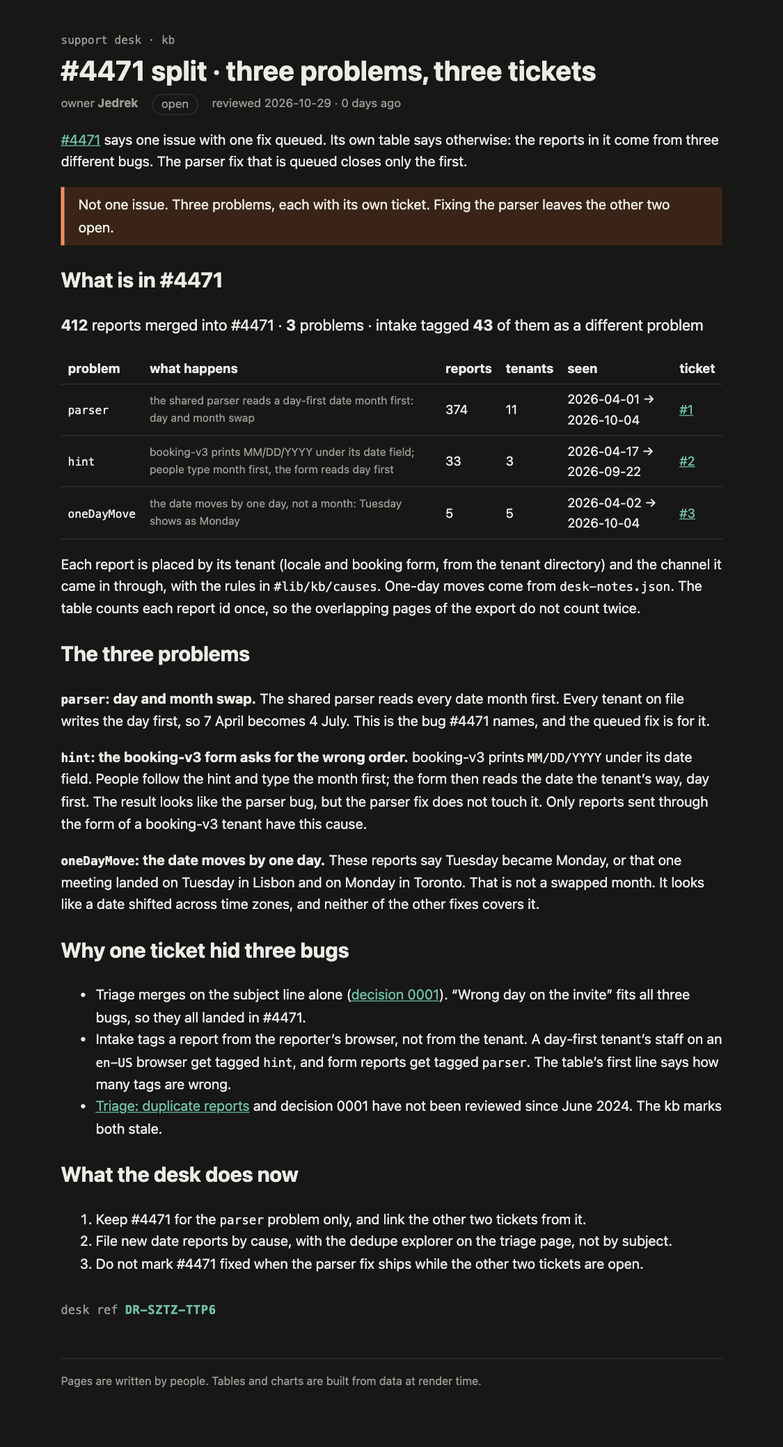
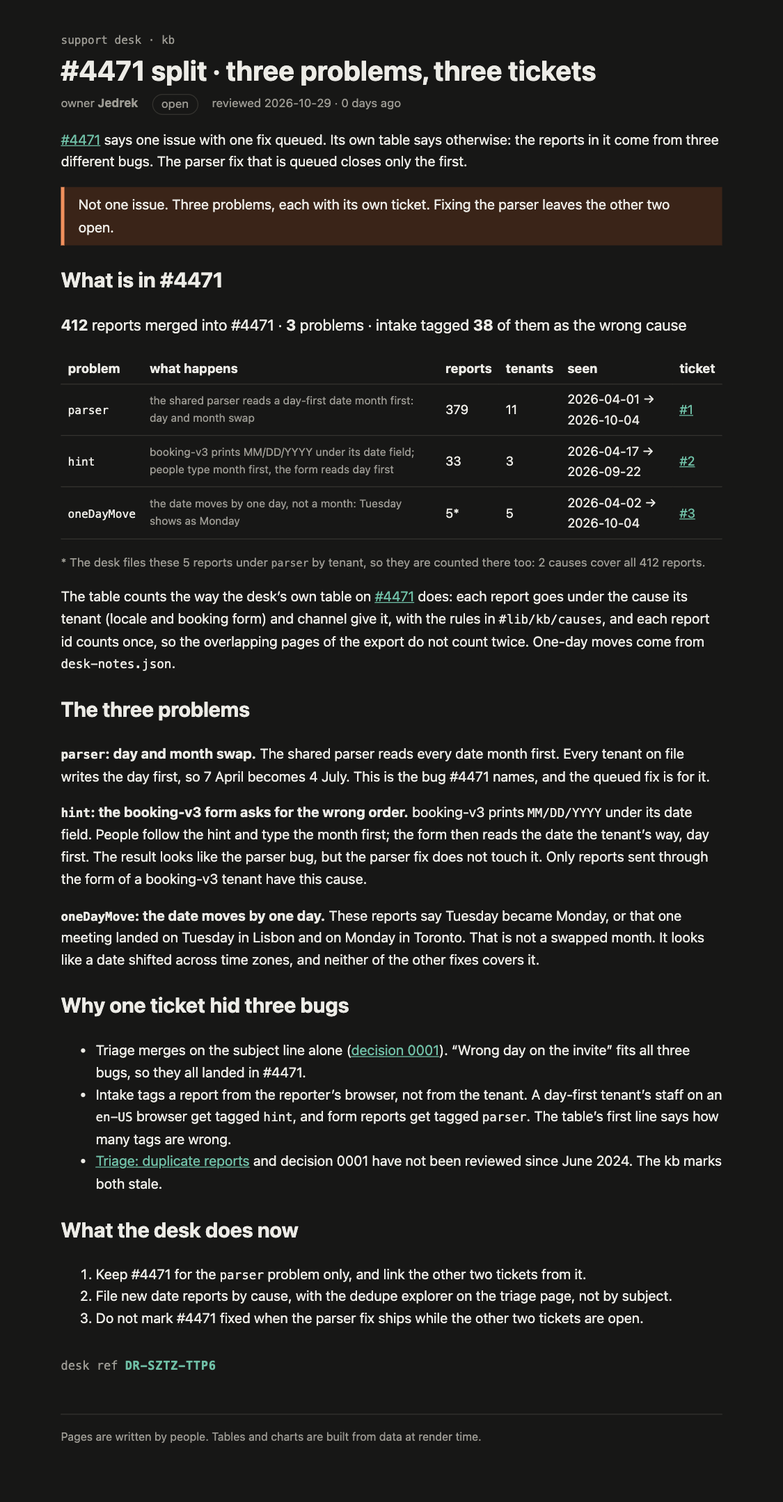
Count #4471 the way the desk's table does, with one-day moves footnoted under parser

Changed region(s): [[0.0622, 0.0308, 0.9333, 0.9235], [0.28, 0.9543, 0.3111, 0.9851], [0.2178, 0.9543, 0.2489, 0.9851]]

diff --git a/rendered/kb/incidents/4471-split/index.html b/rendered/kb/incidents/4471-split/index.html
@@ -9,25 +9,27 @@
 		<link href="../../../_app/immutable/chunks/CiqoZ2A1.js" rel="modulepreload">
 		<link href="../../../_app/immutable/chunks/CHfFqfNT.js" rel="modulepreload">
 		<link href="../../../_app/immutable/chunks/DQG8lHS1.js" rel="modulepreload">
-		<link href="../../../_app/immutable/entry/app.jqC0xmll.js" rel="modulepreload">
+		<link href="../../../_app/immutable/entry/app.BOkr7Ybz.js" rel="modulepreload">
 		<link href="../../../_app/immutable/nodes/0.CTf4XHXr.js" rel="modulepreload">
 		<link href="../../../_app/immutable/chunks/DK3Fl9T5.js" rel="modulepreload">
-		<link href="../../../_app/immutable/nodes/5.DGM5EwYO.js" rel="modulepreload">
-		<link href="../../../_app/immutable/chunks/DLllgp7B.js" rel="modulepreload">
+		<link href="../../../_app/immutable/nodes/5.ei9RfuVf.js" rel="modulepreload">
+		<link href="../../../_app/immutable/chunks/CXTl5jPj.js" rel="modulepreload">
 		<link href="../../../_app/immutable/chunks/DkoUumqI.js" rel="modulepreload">
 		<link href="../../../_app/immutable/chunks/CVBzP17p.js" rel="modulepreload">
 		<link href="../../../_app/immutable/chunks/DcZ9TEUN.js" rel="modulepreload">
 		<!--e2jw2j--><!----><title>#4471 split · three problems, three tickets · support kb</title>
 		<link href="../../../_app/immutable/assets/runbook.COyw0cbZ.css" rel="stylesheet">
 		<link href="../../../_app/immutable/assets/Callout.AbLv9dM_.css" rel="stylesheet">
-		<link href="../../../_app/immutable/assets/_page.w9klQ803.css" rel="stylesheet">
+		<link href="../../../_app/immutable/assets/_page.DsbTgBbZ.css" rel="stylesheet">
   </head>
   <body>
     <div style="display: contents"><!--[--><!--[--><!--[0--><!--[--><!--[--><!--[-1--><!--[--><div class="kb svelte-e2jw2j"><header><a class="crumb svelte-e2jw2j" href="/kb">support desk · kb</a> <h1 class="svelte-e2jw2j">#4471 split · three problems, three tickets</h1> <p class="meta svelte-e2jw2j"><span>owner <b>Jedrek</b></span> <span class="status open svelte-e2jw2j">open</span> <span class="svelte-e2jw2j">reviewed 2026-10-29 · 0 days ago</span></p></header> <!--[-1--><!--]--> <main><p><a href="/kb/incidents/4471">#4471</a> says one issue with one fix queued. Its own table says otherwise: the
 reports in it come from three different bugs. The parser fix that is queued closes only the first.</p> <aside class="warn svelte-17bri61"><!---->Not one issue. Three problems, each with its own ticket. Fixing the parser leaves the other two open.<!----></aside><!----> <h2>What is in #4471</h2> <p class="sum svelte-1op6c6"><strong>412</strong> reports merged into #4471 · <strong>3</strong> problems ·
-  intake tagged <strong>43</strong> of them as a different problem</p> <table><thead><tr><th>problem</th><th>what happens</th><th>reports</th><th>tenants</th><th>seen</th><th>ticket</th></tr></thead><tbody><!--[--><tr class="svelte-1op6c6"><td class="svelte-1op6c6"><code>parser</code></td><td class="what svelte-1op6c6">the shared parser reads a day-first date month first: day and month swap</td><td class="svelte-1op6c6">374</td><td class="svelte-1op6c6">11</td><td class="svelte-1op6c6">2026-04-01 → 2026-10-04</td><td class="svelte-1op6c6"><!--[0--><a href="https://github.com/jedrker/mega.dev-s01e03/issues/1">#1</a><!--]--></td></tr><tr class="svelte-1op6c6"><td class="svelte-1op6c6"><code>hint</code></td><td class="what svelte-1op6c6">booking-v3 prints MM/DD/YYYY under its date field; people type month first, the form reads day first</td><td class="svelte-1op6c6">33</td><td class="svelte-1op6c6">3</td><td class="svelte-1op6c6">2026-04-17 → 2026-09-22</td><td class="svelte-1op6c6"><!--[0--><a href="https://github.com/jedrker/mega.dev-s01e03/issues/2">#2</a><!--]--></td></tr><tr class="svelte-1op6c6"><td class="svelte-1op6c6"><code>oneDayMove</code></td><td class="what svelte-1op6c6">the date moves by one day, not a month: Tuesday shows as Monday</td><td class="svelte-1op6c6">5</td><td class="svelte-1op6c6">5</td><td class="svelte-1op6c6">2026-04-02 → 2026-10-04</td><td class="svelte-1op6c6"><!--[0--><a href="https://github.com/jedrker/mega.dev-s01e03/issues/3">#3</a><!--]--></td></tr><!--]--></tbody></table><!----> <p>Each report is placed by its tenant (locale and booking form, from the tenant directory) and the
-channel it came in through, with the rules in <code>#lib/kb/causes</code>. One-day moves come from <code>desk-notes.json</code>. The table counts each report id once, so the overlapping pages of the export
-do not count twice.</p> <h2>The three problems</h2> <p><strong><code>parser</code>: day and month swap.</strong> The shared parser reads every date month first. Every tenant on
+  intake tagged <strong>38</strong> of them as the wrong cause</p> <table><thead><tr><th>problem</th><th>what happens</th><th>reports</th><th>tenants</th><th>seen</th><th>ticket</th></tr></thead><tbody><!--[--><tr class="svelte-1op6c6"><td class="svelte-1op6c6"><code>parser</code></td><td class="what svelte-1op6c6">the shared parser reads a day-first date month first: day and month swap</td><td class="svelte-1op6c6">379</td><td class="svelte-1op6c6">11</td><td class="svelte-1op6c6">2026-04-01 → 2026-10-04</td><td class="svelte-1op6c6"><!--[0--><a href="https://github.com/jedrker/mega.dev-s01e03/issues/1">#1</a><!--]--></td></tr><tr class="svelte-1op6c6"><td class="svelte-1op6c6"><code>hint</code></td><td class="what svelte-1op6c6">booking-v3 prints MM/DD/YYYY under its date field; people type month first, the form reads day first</td><td class="svelte-1op6c6">33</td><td class="svelte-1op6c6">3</td><td class="svelte-1op6c6">2026-04-17 → 2026-09-22</td><td class="svelte-1op6c6"><!--[0--><a href="https://github.com/jedrker/mega.dev-s01e03/issues/2">#2</a><!--]--></td></tr><tr class="svelte-1op6c6"><td class="svelte-1op6c6"><code>oneDayMove</code></td><td class="what svelte-1op6c6">the date moves by one day, not a month: Tuesday shows as Monday</td><td class="svelte-1op6c6">5*</td><td class="svelte-1op6c6">5</td><td class="svelte-1op6c6">2026-04-02 → 2026-10-04</td><td class="svelte-1op6c6"><!--[0--><a href="https://github.com/jedrker/mega.dev-s01e03/issues/3">#3</a><!--]--></td></tr><!--]--></tbody></table> <!--[--><p class="note svelte-1op6c6">* The desk files these 5 reports under <code>parser</code> by tenant, so
+    they are counted there too: 2 causes cover all
+    412 reports.</p><!--]--><!----> <p>The table counts the way the desk’s own table on <a href="/kb/incidents/4471">#4471</a> does: each report goes
+under the cause its tenant (locale and booking form) and channel give it, with the rules in <code>#lib/kb/causes</code>, and each report id counts once, so the overlapping pages of the export do not
+count twice. One-day moves come from <code>desk-notes.json</code>.</p> <h2>The three problems</h2> <p><strong><code>parser</code>: day and month swap.</strong> The shared parser reads every date month first. Every tenant on
 file writes the day first, so 7 April becomes 4 July. This is the bug #4471 names, and the queued
 fix is for it.</p> <p><strong><code>hint</code>: the booking-v3 form asks for the wrong order.</strong> booking-v3 prints <code>MM/DD/YYYY</code> under its
 date field. People follow the hint and type the month first; the form then reads the date the
@@ -42,16 +44,16 @@ June 2024. The kb marks both stale.</li></ul> <h2>What the desk does now</h2> <o
 			
 			<script>
 				{
-					__sveltekit_1frqo61 = {
+					__sveltekit_1xo4jo9 = {
 						base: new URL("../../..", location).pathname.slice(0, -1),
-						version: "1793312050959"
+						version: "1793312787594"
 					};
 
 					const element = document.currentScript.parentElement;
 
 					import("../../../_app/immutable/entry/start.DHGSJWrH.js").then(async (kit) => {
-						kit.init(__sveltekit_1frqo61);
-						const app = await import("../../../_app/immutable/entry/app.jqC0xmll.js");
+						kit.init(__sveltekit_1xo4jo9);
+						const app = await import("../../../_app/immutable/entry/app.BOkr7Ybz.js");
 						kit.start(app, element, {
 							node_ids: [0, 5],
 							data: [null,null],

diff --git a/rendered/_app/immutable/chunks/CXTl5jPj.js b/rendered/_app/immutable/chunks/CXTl5jPj.js
@@ -1,0 +1,18 @@
+import{t as e}from"./DK3Fl9T5.js";import{E as t,F as n,H as r,I as i,K as a,L as o,N as s,O as c,R as l,S as u,T as d,U as f,W as p,_ as m,c as h,d as g,h as _,k as v,q as y,r as b,t as x,w as S}from"./CHfFqfNT.js";import{t as C}from"./DkoUumqI.js";import{n as w,t as T}from"./CVBzP17p.js";import{a as E,l as D,r as O,t as k}from"./DcZ9TEUN.js";var A=e=>{let t=e.map(e=>e.receivedAt.slice(0,10)).sort();return{firstSeen:t[0],lastSeen:t[t.length-1]}};function j(e,t,n){let r=E(e,t),i=r.map(e=>({problem:e.cause,reports:e.reports,tenants:e.tenants,firstSeen:e.firstSeen,lastSeen:e.lastSeen,filedUnder:[],mistagged:e.reports.filter(t=>t.meta.intakeTag!==e.cause).length})),a=e.filter(e=>n.includes(e.id));return a.length&&i.push({problem:`oneDayMove`,reports:a,tenants:new Set(a.map(e=>e.tenant)).size,...A(a),filedUnder:r.filter(e=>e.reports.some(e=>n.includes(e.id))).map(e=>e.cause),mistagged:0}),i}var M=t(`<a> </a>`),N=t(`<tr><td class="svelte-1op6c6"><code> </code></td><td class="what svelte-1op6c6"> </td><td class="svelte-1op6c6"> </td><td class="svelte-1op6c6"> </td><td class="svelte-1op6c6"> </td><td class="svelte-1op6c6"><!></td></tr>`),P=t(`<p class="note svelte-1op6c6"> <code> </code> </p>`),F=t(`<p class="sum svelte-1op6c6"><strong> </strong> <strong> </strong> <strong> </strong> of them as the wrong cause</p> <table><thead><tr><th>problem</th><th>what happens</th><th>reports</th><th>tenants</th><th>seen</th><th>ticket</th></tr></thead><tbody></tbody></table> <!>`,1);function I(e,t){p(t,!0);let d={parser:`the shared parser reads a day-first date month first: day and month swap`,hint:`booking-v3 prints MM/DD/YYYY under its date field; people type month first, the form reads day first`,oneDayMove:`the date moves by one day, not a month: Tuesday shows as Monday`,unplaced:`tenant not on file or writes month first: read these by hand`},b=r(()=>D(w).filter(e=>e.mergedInto===t.ticket)),x=r(()=>j(v(b),O,T.oneDayMove)),C=r(()=>v(x).reduce((e,t)=>e+t.mistagged,0)),E=e=>`#${e.split(`/`).pop()}`;var k=F(),A=i(k),I=n(A),L=o(I,!0),R=l(I),z=l(R),B=o(z,!0),V=l(z),H=l(V),U=o(H,!0);a(),y(A);var W=l(A,2),G=l(n(W));_(G,21,()=>v(x),e=>e.problem,(e,r)=>{var i=N();let a;var f=n(i),p=n(f),_=o(p,!0);y(f);var b=l(f),x=o(b,!0),C=l(b),w=o(C),T=l(C),D=o(T,!0),O=l(T),k=o(O),A=l(O),j=n(A),P=e=>{var n=M(),i=o(n,!0);s(e=>{h(n,`href`,t.issues[v(r).problem]),u(i,e)},[()=>E(t.issues[v(r).problem])]),S(e,n)},F=e=>{var t=c(`no ticket yet`);S(e,t)};m(j,e=>{t.issues[v(r).problem]?e(P):e(F,-1)}),y(A),y(i),s(()=>{a=g(i,1,`svelte-1op6c6`,null,a,{open:!t.issues[v(r).problem]}),u(_,v(r).problem),u(x,d[v(r).problem]),u(w,`${v(r).reports.length??``}${v(r).filedUnder.length?`*`:``}`),u(D,v(r).tenants),u(k,`${v(r).firstSeen??``} → ${v(r).lastSeen??``}`)}),S(e,i)}),y(G),y(W);var K=l(W,2);_(K,17,()=>v(x).filter(e=>e.filedUnder.length),e=>e.problem,(e,t)=>{var r=P(),i=n(r),a=l(i),c=o(a,!0),d=l(a);y(r),s((e,n)=>{u(i,`* The desk files these ${v(t).reports.length??``} reports under `),u(c,e),u(d,` by tenant, so
+    they are counted there too: ${n??``} causes cover all
+    ${v(b).length??``} reports.`)},[()=>v(t).filedUnder.join(`, `),()=>v(x).filter(e=>!e.filedUnder.length).length]),S(e,r)}),s(()=>{u(L,v(b).length),u(R,` reports merged into #${t.ticket??``} · `),u(B,v(x).length),u(V,` ${v(x).length===1?`problem`:`problems`} ·
+  intake tagged `),u(U,v(C))}),S(e,k),f()}var L=`0123456789ABCDEFGHJKMNPQRSTVWXYZ`;function R(e,t){let n=t>>>0;for(let t=0;t<e.length;t++)n^=e.charCodeAt(t),n=Math.imul(n,16777619)>>>0;return n}function z(e){let t=e.trim(),n=R(t,2166136261),r=R(t,2654435769),i=BigInt(n)<<8n|BigInt(r&255),a=``;for(let e=0;e<8;e++)a=L[Number(i&31n)]+a,i>>=5n;return`DR-${a.slice(0,4)}-${a.slice(4)}`}var B=t(`<p class="stamp svelte-1280m42">desk ref <b class="svelte-1280m42"> </b></p>`),V=t(`<p class="stamp missing svelte-1280m42">no desk ref: this page isn't signed (no <code>signature</code> in its frontmatter)</p>`);function H(e,t){p(t,!0);let a=r(()=>t.signature?z(t.signature):null);var c=d(),h=i(c),g=e=>{var t=B(),r=l(n(t)),i=o(r,!0);y(t),s(()=>u(i,v(a))),S(e,t)},_=e=>{var t=V();S(e,t)};m(h,e=>{v(a)?e(g):e(_,-1)}),S(e,c),f()}var U=e({default:()=>Q,metadata:()=>W}),W={layout:`runbook`,title:`#4471 split · three problems, three tickets`,owner:`Jedrek`,status:`open`,reviewed:`2026-10-29T00:00:00.000Z`,signature:`Jedrek`},{layout:G,title:K,owner:q,status:J,reviewed:Y,signature:X}=W,Z=t(`<p><a href="/kb/incidents/4471">#4471</a> says one issue with one fix queued. Its own table says otherwise: the
+reports in it come from three different bugs. The parser fix that is queued closes only the first.</p> <!> <h2>What is in #4471</h2> <!> <p>The table counts the way the desk’s own table on <a href="/kb/incidents/4471">#4471</a> does: each report goes
+under the cause its tenant (locale and booking form) and channel give it, with the rules in <code>#lib/kb/causes</code>, and each report id counts once, so the overlapping pages of the export do not
+count twice. One-day moves come from <code>desk-notes.json</code>.</p> <h2>The three problems</h2> <p><strong><code>parser</code>: day and month swap.</strong> The shared parser reads every date month first. Every tenant on
+file writes the day first, so 7 April becomes 4 July. This is the bug #4471 names, and the queued
+fix is for it.</p> <p><strong><code>hint</code>: the booking-v3 form asks for the wrong order.</strong> booking-v3 prints <code>MM/DD/YYYY</code> under its
+date field. People follow the hint and type the month first; the form then reads the date the
+tenant’s way, day first. The result looks like the parser bug, but the parser fix does not touch
+it. Only reports sent through the form of a booking-v3 tenant have this cause.</p> <p><strong><code>oneDayMove</code>: the date moves by one day.</strong> These reports say Tuesday became Monday, or that one
+meeting landed on Tuesday in Lisbon and on Monday in Toronto. That is not a swapped month. It
+looks like a date shifted across time zones, and neither of the other fixes covers it.</p> <h2>Why one ticket hid three bugs</h2> <ul><li>Triage merges on the subject line alone (<a href="/kb/decisions/0001-dedupe-by-subject">decision 0001</a>).
+“Wrong day on the invite” fits all three bugs, so they all landed in #4471.</li> <li>Intake tags a report from the reporter’s browser, not from the tenant. A day-first tenant’s
+staff on an <code>en-US</code> browser get tagged <code>hint</code>, and form reports get tagged <code>parser</code>. The table’s
+first line says how many tags are wrong.</li> <li><a href="/kb/triage/dedupe">Triage: duplicate reports</a> and decision 0001 have not been reviewed since
+June 2024. The kb marks both stale.</li></ul> <h2>What the desk does now</h2> <ol><li>Keep #4471 for the <code>parser</code> problem only, and link the other two tickets from it.</li> <li>File new date reports by cause, with the dedupe explorer on the triage page, not by subject.</li> <li>Do not mark #4471 fixed when the parser fix ships while the other two tickets are open.</li></ol> <!>`,1);function Q(e,t){let n=x(t,[`children`,`$$slots`,`$$events`,`$$legacy`]),r={parser:`https://github.com/jedrker/mega.dev-s01e03/issues/1`,hint:`https://github.com/jedrker/mega.dev-s01e03/issues/2`,oneDayMove:`https://github.com/jedrker/mega.dev-s01e03/issues/3`};C(e,b(()=>n,()=>W,{children:(e,t)=>{var n=Z(),o=l(i(n),2);k(o,{kind:`warn`,children:(e,t)=>{a();var n=c(`Not one issue. Three problems, each with its own ticket. Fixing the parser leaves the other two open.`);S(e,n)},$$slots:{default:!0}});var s=l(o,4);I(s,{ticket:4471,get issues(){return r}}),H(l(s,20),{get signature(){return X}}),S(e,n)},$$slots:{default:!0}}))}export{Q as n,U as t};

diff --git a/src/lib/kb/problems.ts b/src/lib/kb/problems.ts
@@ -1,22 +1,25 @@
-// What a report is really about. causes.ts places a report by tenant and channel; a one-day move
-// (desk-notes.json) is a different bug that only lands under `parser` because of its tenant.
-import { causeOf, type Cause, type Report, type Tenant } from '#lib/kb/causes';
+// The problems in a ticket, counted the way the desk's CauseTable counts them: each report under
+// the cause its tenant and channel give it. One-day moves (desk-notes.json) are a bug of their own,
+// but the desk files them under their cause, so they stay counted there too.
+import { groupByCause, type CauseGroup, type Report, type Tenant } from '#lib/kb/causes';
 
-export type Problem = Cause | 'oneDayMove';
-
-export function problemOf(r: Report, t: Tenant | undefined, oneDayMove: readonly string[]): Problem | null {
-  if (oneDayMove.includes(r.id)) return 'oneDayMove';
-  return causeOf(r, t);
-}
+export type Problem = CauseGroup['cause'] | 'oneDayMove';
 
 export type ProblemGroup = {
-  problem: Problem | 'unplaced';
+  problem: Problem;
   reports: Report[];
   tenants: number;
   firstSeen: string;
   lastSeen: string;
-  // Reports whose intake tag names a different cause than the one they belong to.
+  // For oneDayMove: the cause its reports are filed under.
+  filedUnder: CauseGroup['cause'][];
+  // Reports whose intake tag names a different cause than the one they are filed under.
   mistagged: number;
+};
+
+const span = (rs: Report[]) => {
+  const days = rs.map((r) => r.receivedAt.slice(0, 10)).sort();
+  return { firstSeen: days[0], lastSeen: days[days.length - 1] };
 };
 
 export function groupByProblem(
@@ -24,22 +27,26 @@ export function groupByProblem(
   tenantOf: (r: Report) => Tenant | undefined,
   oneDayMove: readonly string[],
 ): ProblemGroup[] {
-  const byProblem = new Map<ProblemGroup['problem'], Report[]>();
-  for (const r of reports) {
-    const p = problemOf(r, tenantOf(r), oneDayMove) ?? 'unplaced';
-    byProblem.set(p, [...(byProblem.get(p) ?? []), r]);
+  const causes = groupByCause(reports, tenantOf);
+  const groups: ProblemGroup[] = causes.map((g) => ({
+    problem: g.cause,
+    reports: g.reports,
+    tenants: g.tenants,
+    firstSeen: g.firstSeen,
+    lastSeen: g.lastSeen,
+    filedUnder: [],
+    mistagged: g.reports.filter((r) => r.meta.intakeTag !== g.cause).length,
+  }));
+  const moved = reports.filter((r) => oneDayMove.includes(r.id));
+  if (moved.length) {
+    groups.push({
+      problem: 'oneDayMove',
+      reports: moved,
+      tenants: new Set(moved.map((r) => r.tenant)).size,
+      ...span(moved),
+      filedUnder: causes.filter((g) => g.reports.some((r) => oneDayMove.includes(r.id))).map((g) => g.cause),
+      mistagged: 0,
+    });
   }
-  return [...byProblem.entries()]
-    .map(([problem, rs]) => {
-      const days = rs.map((r) => r.receivedAt.slice(0, 10)).sort();
-      return {
-        problem,
-        reports: rs,
-        tenants: new Set(rs.map((r) => r.tenant)).size,
-        firstSeen: days[0],
-        lastSeen: days[days.length - 1],
-        mistagged: rs.filter((r) => r.meta.intakeTag !== problem).length,
-      };
-    })
-    .sort((a, b) => b.reports.length - a.reports.length);
+  return groups;
 }

diff --git a/rendered/kb/index.html b/rendered/kb/index.html
@@ -9,22 +9,22 @@
 		<link href="../_app/immutable/chunks/CiqoZ2A1.js" rel="modulepreload">
 		<link href="../_app/immutable/chunks/CHfFqfNT.js" rel="modulepreload">
 		<link href="../_app/immutable/chunks/DQG8lHS1.js" rel="modulepreload">
-		<link href="../_app/immutable/entry/app.jqC0xmll.js" rel="modulepreload">
+		<link href="../_app/immutable/entry/app.BOkr7Ybz.js" rel="modulepreload">
 		<link href="../_app/immutable/nodes/0.CTf4XHXr.js" rel="modulepreload">
 		<link href="../_app/immutable/chunks/DK3Fl9T5.js" rel="modulepreload">
-		<link href="../_app/immutable/nodes/2.BguT7DM2.js" rel="modulepreload">
+		<link href="../_app/immutable/nodes/2.S296oB5s.js" rel="modulepreload">
 		<link href="../_app/immutable/chunks/DkoUumqI.js" rel="modulepreload">
 		<link href="../_app/immutable/chunks/DCOWSXCS.js" rel="modulepreload">
 		<link href="../_app/immutable/chunks/BHCznJ8a.js" rel="modulepreload">
 		<link href="../_app/immutable/chunks/CVBzP17p.js" rel="modulepreload">
 		<link href="../_app/immutable/chunks/DcZ9TEUN.js" rel="modulepreload">
-		<link href="../_app/immutable/chunks/DLllgp7B.js" rel="modulepreload">
+		<link href="../_app/immutable/chunks/CXTl5jPj.js" rel="modulepreload">
 		<link href="../_app/immutable/chunks/Ce0JHbCm.js" rel="modulepreload">
 		<!--e2jw2j--><!----><title>Support knowledge base · support kb</title>
 		<link href="../_app/immutable/assets/runbook.COyw0cbZ.css" rel="stylesheet">
 		<link href="../_app/immutable/assets/Callout.AbLv9dM_.css" rel="stylesheet">
 		<link href="../_app/immutable/assets/_page.D56XP2ro.css" rel="stylesheet">
-		<link href="../_app/immutable/assets/_page.w9klQ803.css" rel="stylesheet">
+		<link href="../_app/immutable/assets/_page.DsbTgBbZ.css" rel="stylesheet">
 		<link href="../_app/immutable/assets/_page.DO6Yid7X.css" rel="stylesheet">
 		<link href="../_app/immutable/assets/2.Bt0MwIZg.css" rel="stylesheet">
   </head>
@@ -34,16 +34,16 @@ computed by a component, not typed into a paragraph.</p><!----></main> <footer c
 			
 			<script>
 				{
-					__sveltekit_1frqo61 = {
+					__sveltekit_1xo4jo9 = {
 						base: new URL("..", location).pathname.slice(0, -1),
-						version: "1793312050959"
+						version: "1793312787594"
 					};
 
 					const element = document.currentScript.parentElement;
 
 					import("../_app/immutable/entry/start.DHGSJWrH.js").then(async (kit) => {
-						kit.init(__sveltekit_1frqo61);
-						const app = await import("../_app/immutable/entry/app.jqC0xmll.js");
+						kit.init(__sveltekit_1xo4jo9);
+						const app = await import("../_app/immutable/entry/app.BOkr7Ybz.js");
 						kit.start(app, element, {
 							node_ids: [0, 2],
 							data: [null,null],

diff --git a/rendered/_app/immutable/nodes/2.S296oB5s.js b/rendered/_app/immutable/nodes/2.S296oB5s.js
@@ -1,0 +1,2 @@
+import{E as e,F as t,I as n,K as r,L as i,N as a,R as o,S as s,U as c,W as l,c as u,d,h as f,i as p,k as m,q as h,r as g,t as _,w as v}from"../chunks/CHfFqfNT.js";import{n as y,r as b,t as x}from"../chunks/DkoUumqI.js";import{t as S}from"../chunks/DCOWSXCS.js";import{t as C}from"../chunks/BHCznJ8a.js";import{t as w}from"../chunks/CXTl5jPj.js";import{t as T}from"../chunks/Ce0JHbCm.js";var E=e(`<tr><td><a> </a></td><td> </td><td> </td><td> </td></tr>`),D=e(`<table><thead><tr><th>page</th><th>owner</th><th>status</th><th>reviewed</th></tr></thead><tbody></tbody></table>`);function O(e,n){l(n,!1);let r=Object.entries(Object.assign({"/src/routes/kb/decisions/0001-dedupe-by-subject/+page.svx":S,"/src/routes/kb/incidents/4471/+page.svx":C,"/src/routes/kb/incidents/4471-split/+page.svx":w,"/src/routes/kb/triage/dedupe/+page.svx":T})).map(([e,t])=>({href:e.replace(`/src/routes`,``).replace(`/+page.svx`,``),...t.metadata})).sort((e,t)=>e.href.localeCompare(t.href));p();var g=D(),_=o(t(g));f(_,5,()=>r,e=>e.href,(e,n)=>{var r=E(),c=t(r),l=t(c),f=i(l,!0);h(c);var p=o(c),g=i(p,!0),_=o(p),x=i(_,!0),S=o(_);let C;var w=i(S,!0);h(r),a((e,t)=>{u(l,`href`,m(n).href),s(f,m(n).title),s(g,m(n).owner),s(x,m(n).status),C=d(S,1,`svelte-tbc1ha`,null,C,{stale:e}),s(w,t)},[()=>y(m(n).reviewed)>180,()=>b(m(n).reviewed)]),v(e,r)}),h(_),h(g),v(e,g),c()}var k={layout:`runbook`,title:`Support knowledge base`,owner:`support desk`,status:`living`,reviewed:`2026-09-28T00:00:00.000Z`},{layout:A,title:j,owner:M,status:N,reviewed:P}=k,F=e(`<p>What the support desk knows, kept next to the code that knows it. One desk, every product: <code>sched-prod</code> (calendar invites for about 300k people) and the rest. When something breaks, the reports land here first.</p> <p>Start with <a href="/kb/triage/dedupe">triage</a> if you are new on the desk.</p> <h2>Pages</h2> <!> <h2>Writing a page</h2> <p>Keep the words here and the logic in <code>src/lib</code>. A number that can be computed should be
+computed by a component, not typed into a paragraph.</p>`,1);function I(e,t){let i=_(t,[`children`,`$$slots`,`$$events`,`$$legacy`]);x(e,g(()=>i,()=>k,{children:(e,t)=>{var i=F();O(o(n(i),6),{}),r(4),v(e,i)},$$slots:{default:!0}}))}export{I as component};

diff --git a/rendered/_app/immutable/entry/app.BOkr7Ybz.js b/rendered/_app/immutable/entry/app.BOkr7Ybz.js
@@ -1,0 +1,2 @@
+const __vite__mapDeps=(i,m=__vite__mapDeps,d=(m.f||(m.f=["../nodes/0.CTf4XHXr.js","../chunks/DK3Fl9T5.js","../chunks/CHfFqfNT.js","../nodes/1.xQrPtl8H.js","../chunks/DQG8lHS1.js","./payload.DSmR2FwN.js","../nodes/2.S296oB5s.js","../chunks/DkoUumqI.js","../assets/runbook.COyw0cbZ.css","../chunks/DCOWSXCS.js","../chunks/BHCznJ8a.js","../chunks/CVBzP17p.js","../chunks/DcZ9TEUN.js","../assets/Callout.AbLv9dM_.css","../assets/_page.D56XP2ro.css","../chunks/CXTl5jPj.js","../assets/_page.DsbTgBbZ.css","../chunks/Ce0JHbCm.js","../assets/_page.DO6Yid7X.css","../assets/2.Bt0MwIZg.css","../nodes/3.utlB90Ku.js","../nodes/4.ot8lEXqF.js","../nodes/5.ei9RfuVf.js","../nodes/6.BZRQ87Zk.js"])))=>i.map(i=>d[i]);
+import{t as e}from"../chunks/CRzLMJPS.js";var t={},n=[()=>e(()=>import(`../nodes/0.CTf4XHXr.js`),__vite__mapDeps([0,1,2]),import.meta.url),()=>e(()=>import(`../nodes/1.xQrPtl8H.js`),__vite__mapDeps([3,2,4,5]),import.meta.url),()=>e(()=>import(`../nodes/2.S296oB5s.js`),__vite__mapDeps([6,2,7,8,9,1,10,11,12,13,14,15,16,17,18,19]),import.meta.url),()=>e(()=>import(`../nodes/3.utlB90Ku.js`),__vite__mapDeps([20,9,1,2,7,8]),import.meta.url),()=>e(()=>import(`../nodes/4.ot8lEXqF.js`),__vite__mapDeps([21,10,1,2,7,8,11,12,13,14]),import.meta.url),()=>e(()=>import(`../nodes/5.ei9RfuVf.js`),__vite__mapDeps([22,15,1,2,7,8,11,12,13,16]),import.meta.url),()=>e(()=>import(`../nodes/6.BZRQ87Zk.js`),__vite__mapDeps([23,17,1,2,7,8,12,13,18]),import.meta.url)],r=[],i={"/kb":[2],"/kb/decisions/0001-dedupe-by-subject":[3],"/kb/incidents/4471-split":[5],"/kb/incidents/4471":[4],"/kb/triage/dedupe":[6]},a={handleError:(({kind:e,error:t})=>{e===`unknown`&&console.error(t)}),reroute:(()=>{}),transport:{}},o=Object.fromEntries(Object.entries(a.transport).map(([e,t])=>[e,t.decode])),s=Object.fromEntries(Object.entries(a.transport).map(([e,t])=>[e,t.encode])),c=!1,l=(e,t)=>o[e](t),u=()=>e(()=>import(`../chunks/Bjy-W4x2.js`).then(e=>e.default),[],import.meta.url);export{l as decode,o as decoders,i as dictionary,s as encoders,u as get_error_template,c as hash,a as hooks,t as matchers,n as nodes,r as server_loads};

diff --git a/rendered/kb/decisions/0001-dedupe-by-subject/index.html b/rendered/kb/decisions/0001-dedupe-by-subject/index.html
@@ -9,7 +9,7 @@
 		<link href="../../../_app/immutable/chunks/CiqoZ2A1.js" rel="modulepreload">
 		<link href="../../../_app/immutable/chunks/CHfFqfNT.js" rel="modulepreload">
 		<link href="../../../_app/immutable/chunks/DQG8lHS1.js" rel="modulepreload">
-		<link href="../../../_app/immutable/entry/app.jqC0xmll.js" rel="modulepreload">
+		<link href="../../../_app/immutable/entry/app.BOkr7Ybz.js" rel="modulepreload">
 		<link href="../../../_app/immutable/nodes/0.CTf4XHXr.js" rel="modulepreload">
 		<link href="../../../_app/immutable/chunks/DK3Fl9T5.js" rel="modulepreload">
 		<link href="../../../_app/immutable/nodes/3.utlB90Ku.js" rel="modulepreload">
@@ -26,16 +26,16 @@ engineering merges them later.</li></ul><!----></main> <footer class="svelte-e2j
 			
 			<script>
 				{
-					__sveltekit_1frqo61 = {
+					__sveltekit_1xo4jo9 = {
 						base: new URL("../../..", location).pathname.slice(0, -1),
-						version: "1793312050959"
+						version: "1793312787594"
 					};
 
 					const element = document.currentScript.parentElement;
 
 					import("../../../_app/immutable/entry/start.DHGSJWrH.js").then(async (kit) => {
-						kit.init(__sveltekit_1frqo61);
-						const app = await import("../../../_app/immutable/entry/app.jqC0xmll.js");
+						kit.init(__sveltekit_1xo4jo9);
+						const app = await import("../../../_app/immutable/entry/app.BOkr7Ybz.js");
 						kit.start(app, element, {
 							node_ids: [0, 3],
 							data: [null,null],

diff --git a/rendered/kb/incidents/4471/index.html b/rendered/kb/incidents/4471/index.html
@@ -9,7 +9,7 @@
 		<link href="../../../_app/immutable/chunks/CiqoZ2A1.js" rel="modulepreload">
 		<link href="../../../_app/immutable/chunks/CHfFqfNT.js" rel="modulepreload">
 		<link href="../../../_app/immutable/chunks/DQG8lHS1.js" rel="modulepreload">
-		<link href="../../../_app/immutable/entry/app.jqC0xmll.js" rel="modulepreload">
+		<link href="../../../_app/immutable/entry/app.BOkr7Ybz.js" rel="modulepreload">
 		<link href="../../../_app/immutable/nodes/0.CTf4XHXr.js" rel="modulepreload">
 		<link href="../../../_app/immutable/chunks/DK3Fl9T5.js" rel="modulepreload">
 		<link href="../../../_app/immutable/nodes/4.ot8lEXqF.js" rel="modulepreload">
@@ -29,16 +29,16 @@ first. The fix is queued.</p> <aside class="note svelte-17bri61"><!---->Known. O
 			
 			<script>
 				{
-					__sveltekit_1frqo61 = {
+					__sveltekit_1xo4jo9 = {
 						base: new URL("../../..", location).pathname.slice(0, -1),
-						version: "1793312050959"
+						version: "1793312787594"
 					};
 
 					const element = document.currentScript.parentElement;
 
 					import("../../../_app/immutable/entry/start.DHGSJWrH.js").then(async (kit) => {
-						kit.init(__sveltekit_1frqo61);
-						const app = await import("../../../_app/immutable/entry/app.jqC0xmll.js");
+						kit.init(__sveltekit_1xo4jo9);
+						const app = await import("../../../_app/immutable/entry/app.BOkr7Ybz.js");
 						kit.start(app, element, {
 							node_ids: [0, 4],
 							data: [null,null],

diff --git a/rendered/kb/triage/dedupe/index.html b/rendered/kb/triage/dedupe/index.html
@@ -9,7 +9,7 @@
 		<link href="../../../_app/immutable/chunks/CiqoZ2A1.js" rel="modulepreload">
 		<link href="../../../_app/immutable/chunks/CHfFqfNT.js" rel="modulepreload">
 		<link href="../../../_app/immutable/chunks/DQG8lHS1.js" rel="modulepreload">
-		<link href="../../../_app/immutable/entry/app.jqC0xmll.js" rel="modulepreload">
+		<link href="../../../_app/immutable/entry/app.BOkr7Ybz.js" rel="modulepreload">
 		<link href="../../../_app/immutable/nodes/0.CTf4XHXr.js" rel="modulepreload">
 		<link href="../../../_app/immutable/chunks/DK3Fl9T5.js" rel="modulepreload">
 		<link href="../../../_app/immutable/nodes/6.BZRQ87Zk.js" rel="modulepreload">
@@ -29,16 +29,16 @@ anything else.<!----></aside><!----> <h2>Try it</h2> <div class="try svelte-gq0h
 			
 			<script>
 				{
-					__sveltekit_1frqo61 = {
+					__sveltekit_1xo4jo9 = {
 						base: new URL("../../..", location).pathname.slice(0, -1),
-						version: "1793312050959"
+						version: "1793312787594"
 					};
 
 					const element = document.currentScript.parentElement;
 
 					import("../../../_app/immutable/entry/start.DHGSJWrH.js").then(async (kit) => {
-						kit.init(__sveltekit_1frqo61);
-						const app = await import("../../../_app/immutable/entry/app.jqC0xmll.js");
+						kit.init(__sveltekit_1xo4jo9);
+						const app = await import("../../../_app/immutable/entry/app.BOkr7Ybz.js");
 						kit.start(app, element, {
 							node_ids: [0, 6],
 							data: [null,null],

diff --git a/src/lib/kb/ProblemTable.svelte b/src/lib/kb/ProblemTable.svelte
@@ -24,7 +24,7 @@
   <strong>{merged.length}</strong> reports merged into #{ticket} ·
   <strong>{groups.length}</strong>
   {groups.length === 1 ? 'problem' : 'problems'} ·
-  intake tagged <strong>{mistagged}</strong> of them as a different problem
+  intake tagged <strong>{mistagged}</strong> of them as the wrong cause
 </p>
 
 <table>
@@ -36,7 +36,7 @@
       <tr class:open={!issues[g.problem]}>
         <td><code>{g.problem}</code></td>
         <td class="what">{WHAT[g.problem]}</td>
-        <td>{g.reports.length}</td>
+        <td>{g.reports.length}{g.filedUnder.length ? '*' : ''}</td>
         <td>{g.tenants}</td>
         <td>{g.firstSeen} → {g.lastSeen}</td>
         <td>
@@ -51,8 +51,17 @@
   </tbody>
 </table>
 
+{#each groups.filter((g) => g.filedUnder.length) as g (g.problem)}
+  <p class="note">
+    * The desk files these {g.reports.length} reports under <code>{g.filedUnder.join(', ')}</code> by tenant, so
+    they are counted there too: {groups.filter((c) => !c.filedUnder.length).length} causes cover all
+    {merged.length} reports.
+  </p>
+{/each}
+
 <style>
   .sum { font-size: 1.1rem; }
+  .note { color: var(--muted); font-size: 0.85em; }
   .what { color: var(--muted); font-size: 0.85em; }
   .open td { background: var(--warn-bg); }
   .open td:last-child { color: var(--warn); font-weight: 600; }

diff --git a/rendered/_app/immutable/assets/_page.DsbTgBbZ.css b/rendered/_app/immutable/assets/_page.DsbTgBbZ.css
@@ -1,0 +1,1 @@
+.sum.svelte-1op6c6{font-size:1.1rem}.note.svelte-1op6c6,.what.svelte-1op6c6{color:var(--muted);font-size:.85em}.open.svelte-1op6c6 td:where(.svelte-1op6c6){background:var(--warn-bg)}.open.svelte-1op6c6 td:where(.svelte-1op6c6):last-child{color:var(--warn);font-weight:600}.stamp.svelte-1280m42{font:.85rem var(--mono);color:var(--muted);margin:2rem 0 0}.stamp.svelte-1280m42 b:where(.svelte-1280m42){color:var(--accent);letter-spacing:.04em}.missing.svelte-1280m42{color:var(--warn)}

diff --git a/rendered/_app/immutable/nodes/5.ei9RfuVf.js b/rendered/_app/immutable/nodes/5.ei9RfuVf.js
@@ -1,0 +1,1 @@
+export{n as component}from"../chunks/CXTl5jPj.js";
